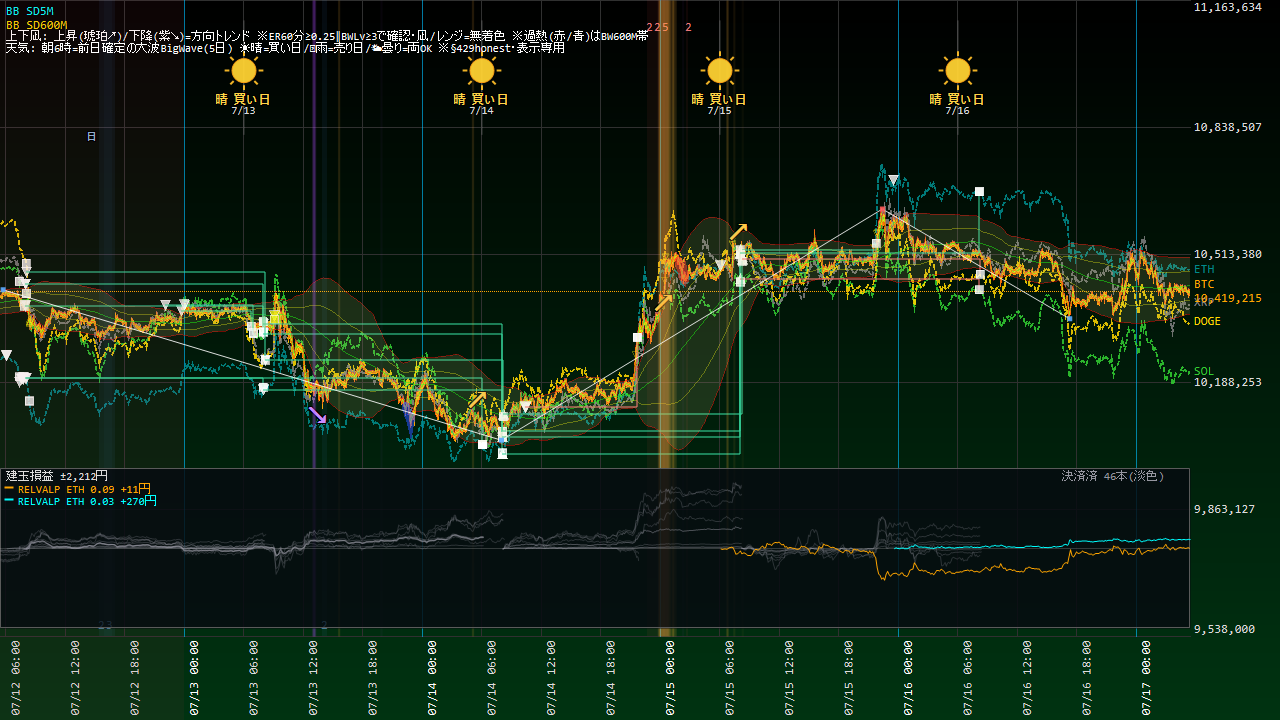
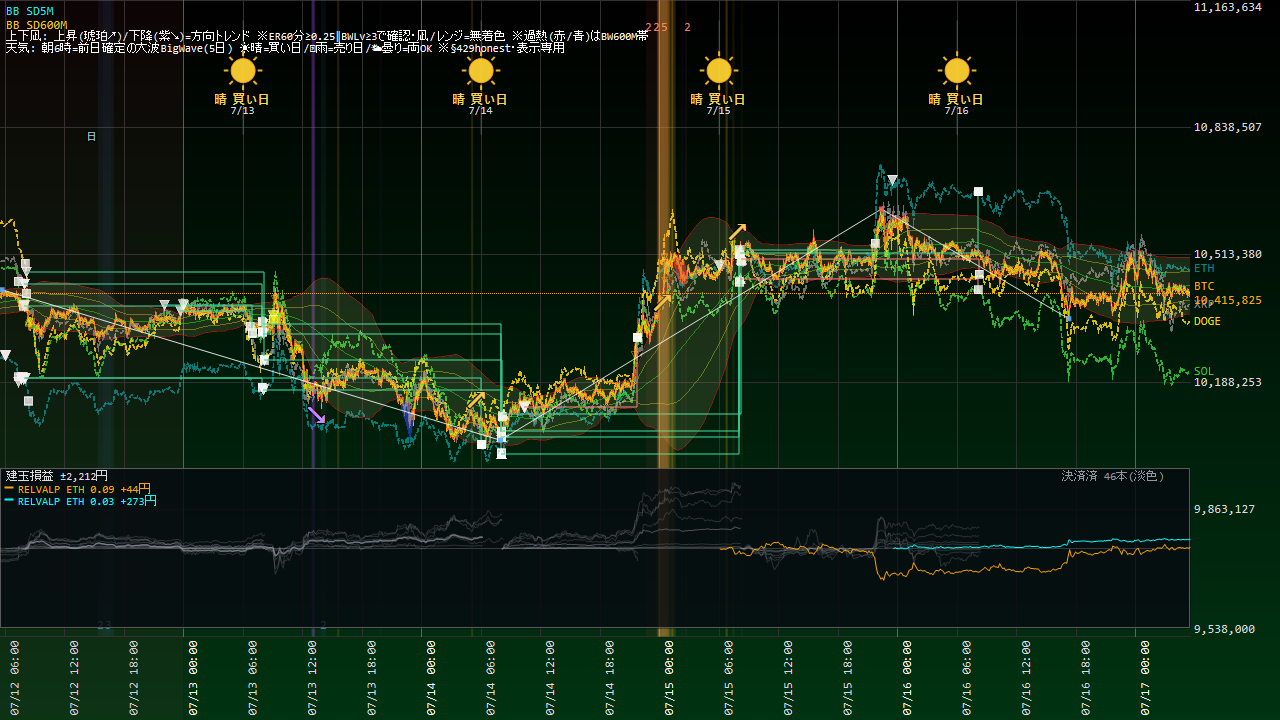
Coin100S 運用状況更新 07-17 05:35

diff --git a/coin100s-795hc4jfv8/index.html b/coin100s-795hc4jfv8/index.html
@@ -14,16 +14,16 @@ a{color:#60a5fa;text-decoration:none} a:hover{text-decoration:underline}
 .meta{color:#94a3b8;font-size:13px}</style>
 <script>setTimeout(function(){location.replace(location.pathname+"?t="+Date.now());},300000);</script></head><body>
 <h1>Coin100S ダッシュボード</h1>
-<p class="meta">スナップショット: 2026-07-17 05:29:07(自動リロード・最新化)</p>
+<p class="meta">スナップショット: 2026-07-17 05:35:07(自動リロード・最新化)</p>
 <div class="cards">
 <div class="card">建玉数<div class="v">2</div></div>
 <div class="card">本日損益<div class="v pos">+804円</div></div>
-<div class="card">評価損益<div class="v pos">+284円</div></div>
+<div class="card">評価損益<div class="v pos">+266円</div></div>
 </div>
 <h2>現在の建玉</h2>
-<table><tr><th>銘柄</th><th>側</th><th>数量</th><th>建値</th><th>含損益</th><th>レッグ</th></tr><tr><td>ETH_JPY</td><td>SELL</td><td>0.03</td><td>@313,051</td><td>+264円</td><td>RELVALP_SL700</td></tr><tr><td>ETH_JPY</td><td>SELL</td><td>0.09</td><td>@304,456</td><td>+20円</td><td>RELVALP_SELL</td></tr></table>
+<table><tr><th>銘柄</th><th>側</th><th>数量</th><th>建値</th><th>含損益</th><th>レッグ</th></tr><tr><td>ETH_JPY</td><td>SELL</td><td>0.03</td><td>@313,051</td><td>+260円</td><td>RELVALP_SL700</td></tr><tr><td>ETH_JPY</td><td>SELL</td><td>0.09</td><td>@304,456</td><td>+6円</td><td>RELVALP_SELL</td></tr></table>
 <p><a href="status.html"><b>▶ 運用状況の詳細(チャート・本日の取引・レジーム)</b></a></p>
 <h2>日報一覧</h2>
 <table><tr><th>取引日</th><th>実現損益</th><th>総括</th></tr><tr><td><a href='reports/20260715_Coin100S日報.html'>2026-07-15</a></td><td class="pos">+0円</td><td class='meta'>実取引: 新規6件/決済5件、実現損益 +0円。シグナル却下6件（最多: BW10M3_5M／トレンド方向ゲート(N分傾き上と不一致=逆張り方向のfade禁止)）。⚠警告/エラー 7件（要確認）。</td></tr><tr><td><a href='reports/20260714_Coin100S日報.html'>2026-07-14</a></td><td class="pos">+0円</td><td class='meta'>実取引: 新規6件/決済18件、実現損益 +0円。シグナル却下5件（最多: BW10M3_5M／トレンド方向ゲート(N分傾き上と不一致=逆張り方向のfade禁止)）。⚠警告/エラー 9件（要確認）。</td></tr><tr><td><a href='reports/20260713_Coin100S日報.html'>2026-07-13</a></td><td class="pos">+0円</td><td class='meta'>実取引: 新規5件/決済8件、実現損益 +0円。シグナル却下1件（最多: BW10M3_5M／トレンド方向ゲート(N分傾き上と不一致=逆張り方向のfade禁止)）。警告/孤児/エラーなし＝健全。</td></tr><tr><td><a href='reports/20260712_Coin100S日報.html'>2026-07-12</a></td><td class="pos">+0円</td><td class='meta'>実取引: 新規14件/決済6件、実現損益 +0円。シグナル却下5件（最多: BW10M3_5M／トレンド方向ゲート(N分傾き下と不一致=逆張り方向のfade禁止)）。⚠警告/エラー 2件（要確認）。</td></tr><tr><td><a href='reports/20260711_Coin100S日報.html'>2026-07-11</a></td><td class="pos">+0円</td><td class='meta'>実取引: 新規7件/決済6件、実現損益 +0円。⚠警告/エラー 52件（要確認）。</td></tr><tr><td><a href='reports/20260710_Coin100S日報.html'>2026-07-10</a></td><td class="pos">+0円</td><td class='meta'>実取引: 新規7件/決済6件、実現損益 +0円。シグナル却下6件（最多: BW10M3_5M／トレンド方向ゲート(N分傾き上と不一致=逆張り方向のfade禁止)）。警告/孤児/エラーなし＝健全。</td></tr><tr><td><a href='reports/20260709_Coin100S日報.html'>2026-07-09</a></td><td class="pos">+0円</td><td class='meta'>実取引: 新規8件/決済3件、実現損益 +0円。シグナル却下5件（最多: SD120M_5M／トレンド方向ゲート(N分傾き上と不一致=逆張り方向のfade禁止)）。警告/孤児/エラーなし＝健全。</td></tr><tr><td><a href='reports/20260708_Coin100S日報.html'>2026-07-08</a></td><td class="pos">+0円</td><td class='meta'>実取引: 新規2件/決済4件、実現損益 +0円。シグナル却下4件（最多: SD120M_5M／トレンド方向ゲート(N分傾き下と不一致=逆張り方向のfade禁止)）。警告/孤児/エラーなし＝健全。</td></tr><tr><td><a href='reports/20260707_Coin100S日報.html'>2026-07-07</a></td><td class="pos">+0円</td><td class='meta'>実取引: 新規8件/決済6件、実現損益 +0円。シグナル却下4件（最多: SD120M_5M／トレンド方向ゲート(N分傾き上と不一致=逆張り方向のfade禁止)）。⚠警告/エラー 258件（要確認）。</td></tr><tr><td><a href='reports/20260706_Coin100S日報.html'>2026-07-06</a></td><td class="pos">+0円</td><td class='meta'>実取引: 新規9件/決済6件、実現損益 +0円。シグナル却下9件（最多: SD120M_5M／トレンド方向ゲート(N分傾き上と不一致=逆張り方向のfade禁止)）。⚠警告/エラー 150件（要確認）。</td></tr><tr><td><a href='reports/20260705_Coin100S日報.html'>2026-07-05</a></td><td class="pos">+0円</td><td class='meta'>実取引: 新規8件/決済3件、実現損益 +0円。⚠警告/エラー 2件（要確認）。</td></tr><tr><td><a href='reports/20260704_Coin100S日報.html'>2026-07-04</a></td><td class="pos">+0円</td><td class='meta'>実取引: 新規1件/決済2件、実現損益 +0円。⚠警告/エラー 2件（要確認）。</td></tr><tr><td><a href='reports/20260703_Coin100S日報.html'>2026-07-03</a></td><td class="pos">+0円</td><td class='meta'>実取引: 新規5件/決済4件、実現損益 +0円。⚠警告/エラー 15件（要確認）。</td></tr><tr><td><a href='reports/20260702_Coin100S日報.html'>2026-07-02</a></td><td class="pos">+0円</td><td class='meta'>実取引: 新規7件/決済5件、実現損益 +0円。シグナル却下17件（最多: SD120M_5M／トレンド方向ゲート(N分傾き上と不一致=逆張り方向のfade禁止)）。⚠警告/エラー 26件（要確認）。</td></tr><tr><td><a href='reports/20260701_Coin100S日報.html'>2026-07-01</a></td><td class="pos">+0円</td><td class='meta'>実取引: 新規14件/決済8件、実現損益 +0円。シグナル却下14件（最多: SD120M_5M／ボラ軸ゲート(SDN%&amp;gt;N%=高ボラ/荒れレンジ)）。⚠警告/エラー 2件（要確認）。</td></tr><tr><td><a href='reports/20260630_Coin100S日報.html'>2026-06-30</a></td><td class="pos">+0円</td><td class='meta'>実取引: 新規0件/決済1件、実現損益 +0円。シグナル却下29件（最多: 微5M／当日枠N）。警告/孤児/エラーなし＝健全。</td></tr></table>
-<hr><p class="meta">更新: 2026-07-17 05:29:11 / 自動生成: tools/web_publish.py(§580)</p>
+<hr><p class="meta">更新: 2026-07-17 05:35:08 / 自動生成: tools/web_publish.py(§580)</p>
 </body></html>

diff --git a/coin100s-795hc4jfv8/status.html b/coin100s-795hc4jfv8/status.html
@@ -14,22 +14,22 @@ a{color:#60a5fa;text-decoration:none} a:hover{text-decoration:underline}
 .meta{color:#94a3b8;font-size:13px}</style>
 <script>setTimeout(function(){location.replace(location.pathname+"?t="+Date.now());},300000);</script></head><body>
 <h1>Coin100S 運用状況</h1>
-<p class="meta">スナップショット: 2026-07-17 05:28:36 / ページ生成: 2026-07-17 05:29:11(自動リロード・最新化) / <a href="index.html">目次へ</a></p>
+<p class="meta">スナップショット: 2026-07-17 05:34:36 / ページ生成: 2026-07-17 05:35:08(自動リロード・最新化) / <a href="index.html">目次へ</a></p>
 <div class="cards">
 <div class="card">建玉数<div class="v">2</div></div>
 <div class="card">本日損益<div class="v pos">+804円</div></div>
-<div class="card">評価損益<div class="v pos">+284円</div></div>
+<div class="card">評価損益<div class="v pos">+266円</div></div>
 </div>
 <h2>資産推移(直近30日)</h2>
-<img src="status_equity.png?t=0529" alt="equity">
+<img src="status_equity.png?t=0535" alt="equity">
 <h2>取引チャート(直近24h)</h2>
-<img src="status_chart.png?t=0529" alt="chart">
+<img src="status_chart.png?t=0535" alt="chart">
 <h2>建玉一覧</h2>
-<table><tr><th>銘柄</th><th>側</th><th>数量</th><th>建値</th><th>含損益</th><th>レッグ</th></tr><tr><td>ETH_JPY</td><td>SELL</td><td>0.03</td><td>@313,051</td><td>+264円</td><td>RELVALP_SL700</td></tr><tr><td>ETH_JPY</td><td>SELL</td><td>0.09</td><td>@304,456</td><td>+20円</td><td>RELVALP_SELL</td></tr></table>
+<table><tr><th>銘柄</th><th>側</th><th>数量</th><th>建値</th><th>含損益</th><th>レッグ</th></tr><tr><td>ETH_JPY</td><td>SELL</td><td>0.03</td><td>@313,051</td><td>+260円</td><td>RELVALP_SL700</td></tr><tr><td>ETH_JPY</td><td>SELL</td><td>0.09</td><td>@304,456</td><td>+6円</td><td>RELVALP_SELL</td></tr></table>
 <h2>実現決済履歴(直近15件・OrderId単位)</h2>
 <table><tr><th>決済時刻</th><th>レッグ</th><th>銘柄</th><th>実現損益</th></tr><tr><td>07-16 08:21</td><td>TENKI5D_REV_DOGE</td><td>DOGE</td><td class="neg">-125円</td></tr><tr><td>07-16 08:12</td><td>TENKI5D_REV_ETH</td><td>ETH</td><td class="pos">+740円</td></tr><tr><td>07-16 08:12</td><td>TENKI5D_REV_ETH</td><td>ETH</td><td class="pos">+555円</td></tr><tr><td>07-16 08:12</td><td>TENKI5D_REV_SOL</td><td>SOL</td><td class="neg">-193円</td></tr><tr><td>07-15 21:51</td><td>TENKI5D_REV_BTC</td><td>BTC</td><td class="pos">+94円</td></tr><tr><td>07-15 08:18</td><td>TENKI5D_REV_DOGE</td><td>DOGE</td><td class="pos">+858円</td></tr><tr><td>07-15 08:09</td><td>TENKI5D_REV_ETH</td><td>ETH</td><td class="pos">+601円</td></tr><tr><td>07-15 08:09</td><td>TENKI5D_REV_ETH</td><td>ETH</td><td class="pos">+2,402円</td></tr><tr><td>07-15 08:09</td><td>TENKI5D_REV_SOL</td><td>SOL</td><td class="pos">+1,812円</td></tr><tr><td>07-15 08:09</td><td>TENKI5D_REV_BTC</td><td>BTC</td><td class="pos">+1,850円</td></tr><tr><td>07-14 21:47</td><td>SIGFADE_ETH</td><td>ETH</td><td class="neg">-350円</td></tr><tr><td>07-14 21:47</td><td>SIGFADE_ETH</td><td>ETH</td><td class="neg">-141円</td></tr><tr><td>07-14 08:15</td><td>TENKI5D_REV_DOGE</td><td>DOGE</td><td class="pos">+267円</td></tr><tr><td>07-14 08:06</td><td>TENKI5D_REV_SOL</td><td>SOL</td><td class="pos">+1,011円</td></tr><tr><td>07-14 08:06</td><td>TENKI5D_REV_BTC</td><td>BTC</td><td class="pos">+819円</td></tr></table>
 <!-- §799c 「本取引日の実取引(6:00起点)」テーブルは公開ページから削除(ユーザー指示2026-07-15・数量/指値まで晒す情報漏れ)。建玉/実現損益は許可・実発注の生取引明細は非公開 -->
 <h2>現在レジーム(3軸・§570c)</h2>
-<ul><li>アルト対BTC 5日: <b>+5bps</b>(アルト優越=RELVAL逆風)</li><li>BTC ER240m: <b>0.089</b>(閾値0.25→レンジ(fade順風/BWTRD逆風))</li><li>BTC実現ボラ240m: <b>4.07</b> bps/分</li></ul>
+<ul><li>アルト対BTC 5日: <b>+5bps</b>(アルト優越=RELVAL逆風)</li><li>BTC ER240m: <b>0.089</b>(閾値0.25→レンジ(fade順風/BWTRD逆風))</li><li>BTC実現ボラ240m: <b>3.95</b> bps/分</li></ul>
 <hr><p class="meta">自動生成: tools/web_publish.py(§580・読み取り専用)。売買判断はアプリ本体。</p>
 </body></html>
